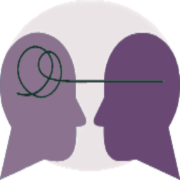
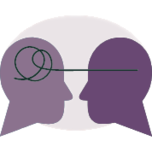
add og file name and fix titles

Changed region(s): [[0.0, 0.0, 1.0, 0.5526], [0.0, 0.5263, 1.0, 1.0]]

diff --git a/src/Michele.Client/wwwroot/index.html b/src/Michele.Client/wwwroot/index.html
@@ -5,15 +5,20 @@
     <meta charset="utf-8" />
     <meta name="viewport" content="width=device-width, initial-scale=1.0, maximum-scale=1.0, user-scalable=no" />
     <meta name="description" content="Michèle Masson-Trottier's website to showcase her portfolio, personal projects, and much more.">
+    <meta property="og:type" content="website" />
+    <meta property="og:site_name" content="Michèle Masson-Trottier" />
     <meta property="og:image" content="https://michelemassontrottier.ca/images/michele-orthophoniste-logo.jpg" />
     <base href="/" />
     <link href="css/bootstrap/bootstrap.min.css" rel="stylesheet" />
     <link href="css/app.css" rel="stylesheet" />
     <link href="Michele.Client.styles.css" rel="stylesheet" />
-    <link rel="apple-touch-icon" sizes="180x180" href="/apple-touch-icon.png">
+    <link rel="apple-touch-icon" sizes="152x152" href="/apple-touch-icon.png">
     <link rel="icon" type="image/png" sizes="32x32" href="/favicon-32x32.png">
     <link rel="icon" type="image/png" sizes="16x16" href="/favicon-16x16.png">
     <link rel="manifest" href="/site.webmanifest">
+    <link rel="mask-icon" href="/safari-pinned-tab.svg" color="#5bbad5">
+    <meta name="msapplication-TileColor" content="#da532c">
+    <meta name="theme-color" content="#ffffff">
     <script src="https://kit.fontawesome.com/dbed0b475c.js" crossorigin="anonymous"></script>   
 </head>
 
